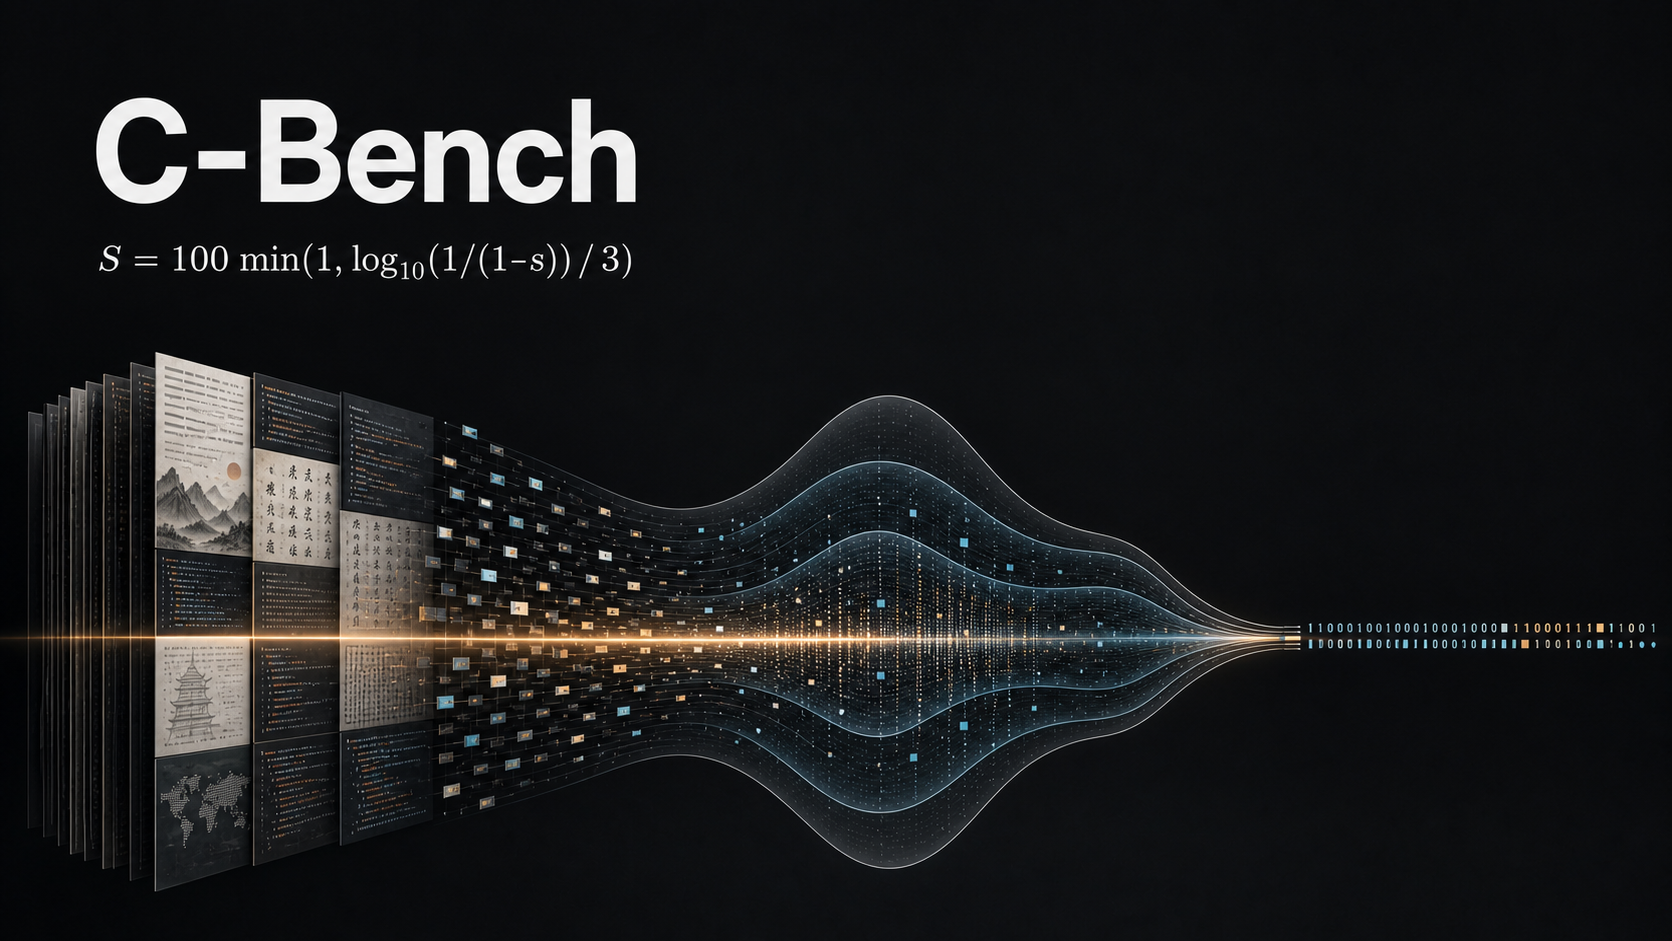
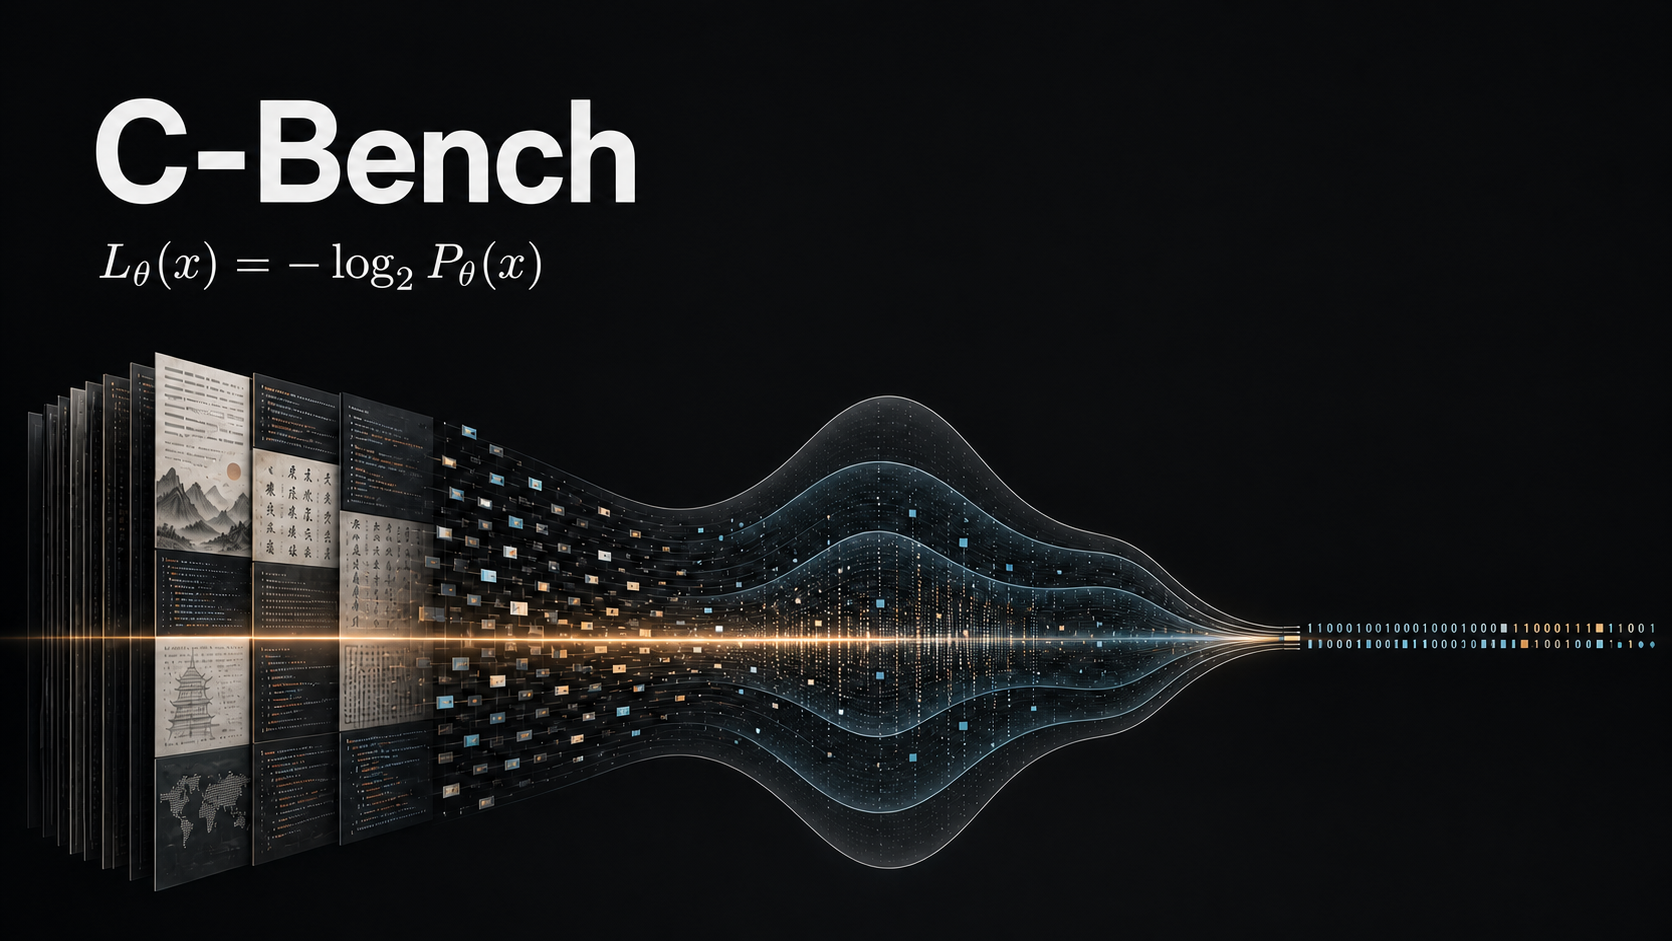
Use compression principle equation in poster

diff --git a/README.md b/README.md
@@ -1,6 +1,6 @@
 # C-Bench: Measuring Language Models Through Compression
 
-![C-Bench poster showing predictive compression and the benchmark score equation](docs/assets/cbench-poster.png)
+![C-Bench poster showing predictive compression and the compression equation](docs/assets/cbench-poster.png)
 
 ## Principle
 
